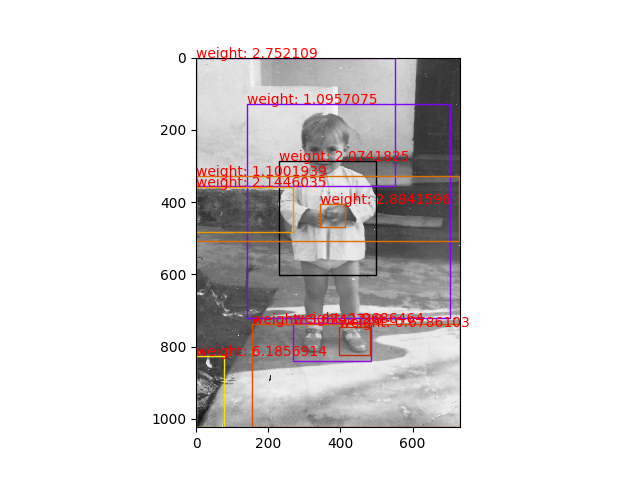
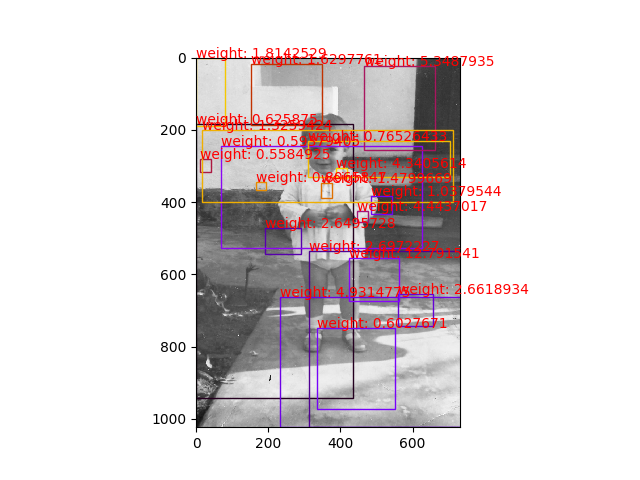
push visFeatures.py

Changed region(s): [[0.2812, 0.0938, 0.8438, 0.9062]]

diff --git a/getImages/visFeatures.py b/getImages/visFeatures.py
@@ -12,7 +12,7 @@ import matplotlib.pyplot as plt
 import matplotlib.patches as patches
 from PIL import Image
 
-filename = '../data/nocaps_val_vg_detector_features_adaptive.h5'
+filename = '../data/coco_val2017_vg_detector_features_adaptive.h5'
 ID = int(input("enter image id to visualize"))
 image = cv2.imread('im'+str(ID)+'.jpg')
 
@@ -24,15 +24,20 @@ with h5py.File(filename, 'r') as f:
     # Get the data
     data = list(f[a_group_key])
     index = 0
-    for i in range(4500):
-        if (f['image_id'][i]==ID):
-            index = i
-            break
-    print(f['features'][index])
-    
+    # for i in range(4500):
+    #     if (f['image_id'][i]==ID):
+    #         index = i
+            # break
+    print (f['image_id'][index])
     boxes = np.array(f['boxes'][index])
     boxes = boxes.reshape(boxes.size//4,4)
-    print(boxes)
+    feat = np.array(f['features'][index])
+    feat = feat.reshape(feat.size//2048,2048)
+    print(boxes.shape)
+    print (f['height'][index],f['width'][index],np.amax(boxes,axis=0))
+    # print(feat.shape, boxes.shape)
+    raise Exception()
+    # print(boxes)
     fig,ax = plt.subplots(1)
     ax.imshow(image)
     
@@ -40,7 +45,7 @@ with h5py.File(filename, 'r') as f:
     colors = [cmap(i) for i in np.linspace(0, 1, boxes.shape[0])]
     
     for i,box in enumerate(boxes):
-    	if f['features'][index][i]>=0.5:
+    	#if f['features'][index][i]>=0.5:
 	        # Create a Rectangle patch
 	        rect = patches.Rectangle((box[0],box[1]),box[2]-box[0],box[3]-box[1],linewidth=1,edgecolor=colors[i],facecolor='none')
 	        # Add the patch to the Axes
